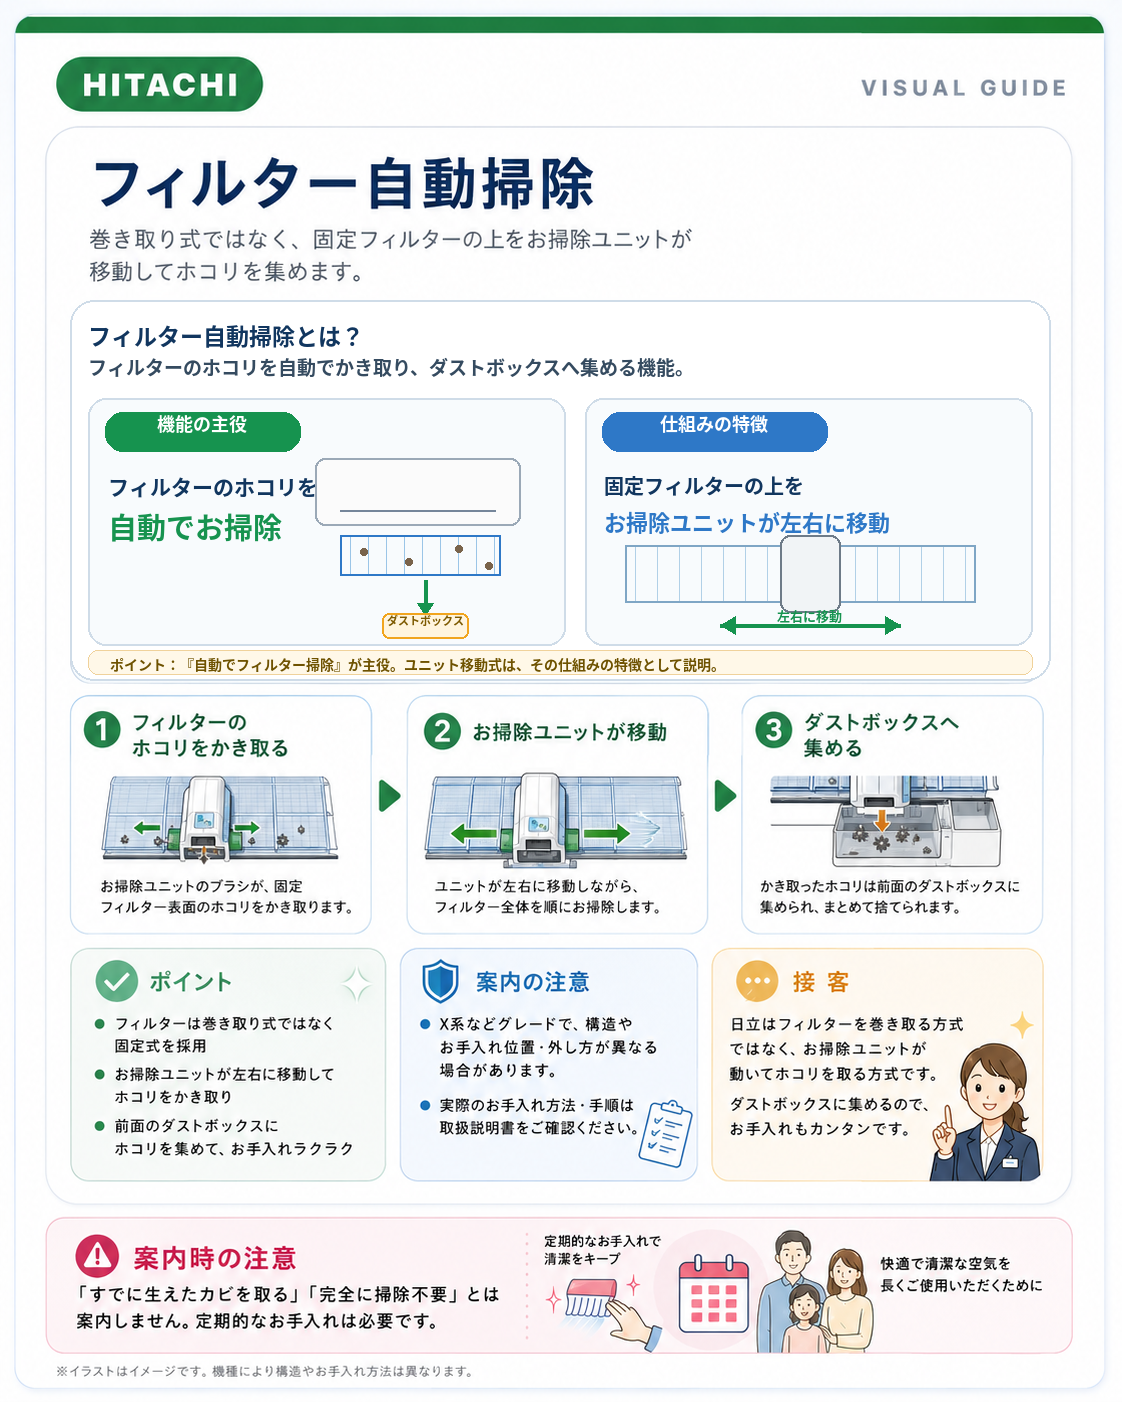
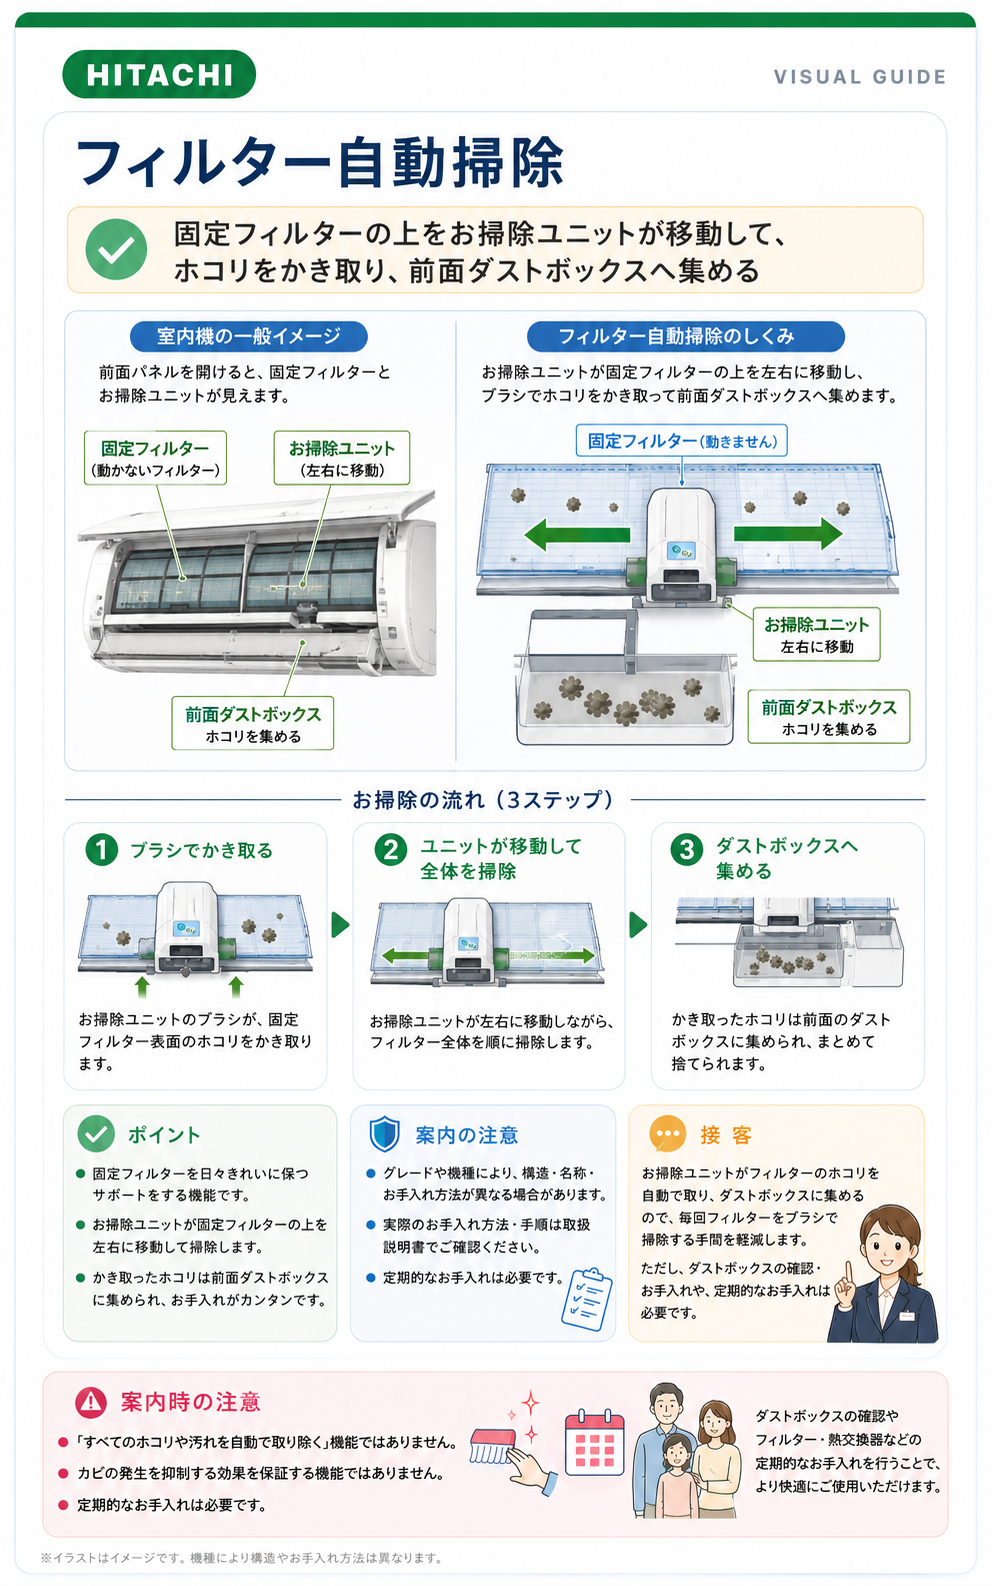
Add files via upload

diff --git a/index.html b/index.html
@@ -4,7 +4,7 @@
 <meta charset="utf-8">
 <meta name="viewport" content="width=device-width,initial-scale=1,viewport-fit=cover">
 <meta name="theme-color" content="#ffffff">
-<title>エアコン販買マスター Pro Ver.6.9.9 SHARP図解本体修正版</title>
+<title>エアコン販買マスター Pro Ver.6.10.0 日立資料反映版</title>
 <link rel="apple-touch-icon" sizes="180x180" href="apple-touch-icon.png?v=3890">
 <link rel="icon" type="image/png" sizes="32x32" href="favicon-32.png?v=3890">
 <style>
@@ -1294,7 +1294,7 @@ html,body{max-width:100%;overflow-x:hidden}
 
 
 <style id="v630-sharp-lux-final">
-/* Ver.6.9.9 SHARP図解本体修正版：iPad/iPhone見切れ対策 */
+/* Ver.6.10.0 日立資料反映版：iPad/iPhone見切れ対策 */
 #visualGrid .visual-card[data-cat="sharp"]{
   overflow:hidden!important;
   padding:10px!important;
@@ -1434,7 +1434,7 @@ html,body{max-width:100%;overflow-x:hidden}
 #general .maker-status-list span,#mitsubishi .maker-status-list span{min-width:42px;text-align:center}
 @media(max-width:700px){#general .hitachi-flow-row,#mitsubishi .hitachi-flow-row{grid-template-columns:1fr!important}#general .hitachi-flow-row i,#mitsubishi .hitachi-flow-row i{transform:rotate(90deg)}}
 
-/* ===== Ver6.9.9 Tamachan Feedback Fully Applied ===== */
+/* ===== Ver6.10.0 Tamachan Feedback Fully Applied ===== */
 .visual-grid{grid-template-columns:repeat(2,minmax(0,1fr));gap:18px}
 .visual-card{position:relative;border:1px solid #cfe0ef;border-radius:24px;background:linear-gradient(180deg,#fff 0%,#f8fbff 100%);overflow:hidden;box-shadow:0 14px 34px rgba(20,61,102,.10)}
 .visual-card::before{content:"";display:block;height:7px;background:linear-gradient(90deg,#0d6ee8,#61a9ff)}
@@ -1484,7 +1484,7 @@ html,body{max-width:100%;overflow-x:hidden}
     <div class="brand">
       <span class="brand-snow">❄</span>
       <span>エアコン販買マスター</span>
-      <small>Ver.6.9.9 SHARP図解本体修正版</small>
+      <small>Ver.6.10.0 日立資料反映版</small>
     </div>
     <button class="icon-button status-button" onclick="openMission()" aria-label="今日の目標">◎</button>
   </header>
@@ -3350,9 +3350,9 @@ const VISUAL_LIBRARY=[
  {category:"daikin",file:"room-patrol.png",title:"室温パトロール",desc:"停止中の見守りから自動運転までの流れを図解。"},
  {category:"daikin",file:"daikin-overview.png",title:"R・A・F・E比較",desc:"使い方・希望・予算から、4シリーズの提案軸を比較。"},
  {category:"hitachi",file:"hitachi-freeze-indoor-illustrated.png?v=686",title:"凍結洗浄（室内機）",desc:"凍結→汚れ捕捉→解凍排水の工程と、できること・限界を図解。"},
- {category:"hitachi",file:"hitachi-freeze-outdoor-lux-v695.png?v=697",title:"凍結洗浄（室外機）",desc:"背面熱交換器の凍結→解凍→洗い流し。工場出荷時OFF・設定必要・逆回転時の案内を整理。"},
+ {category:"hitachi",file:"hitachi-freeze-outdoor-lux-v695.png?v=6100",title:"凍結洗浄（室外機）",desc:"背面熱交換器の凍結→解凍→洗い流し。工場出荷時OFF・設定必要・逆回転時の案内を整理。"},
  {category:"hitachi",file:"hitachi-fan-robot-illustrated.png?v=686",title:"ファンお掃除ロボ",desc:"送風ファンの清掃範囲と、フィルター自動掃除との違いを図解。"},
- {category:"hitachi",file:"hitachi-filter-auto-lux-v696.png?v=697",title:"フィルター自動掃除",desc:"フィルターのホコリを自動掃除する機能を主役にし、ユニット移動式は仕組みの特徴として整理。"},
+ {category:"hitachi",file:"hitachi-filter-auto-lux-v696.png?v=6100",title:"フィルター自動掃除",desc:"固定フィルター上をお掃除ユニットが左右移動し、ホコリを前面ダストボックスへ集める仕組みを図解。"},
  {category:"hitachi",file:"hitachi-mold-buster-illustrated.png?v=686",title:"カビバスター",desc:"停止中の温湿度監視と、加熱・低湿制御によるカビ抑制を図解。"},
  {category:"hitachi",file:"hitachi-internal-dry-illustrated.png?v=686",title:"内部送風乾燥",desc:"停止後の送風で内部の湿気を乾かし、カビ抑制を助ける流れを図解。"},
  {category:"hitachi",file:"hitachi-stainless-illustrated.png?v=686",title:"ステンレス・クリーン",desc:"フィルター・通風路・フラップなど、採用箇所と限界を図解。"},
@@ -3363,7 +3363,7 @@ const VISUAL_LIBRARY=[
  {category:"hitachi",file:"hitachi-frost-watch-illustrated.png?v=686",title:"みはって霜取り",desc:"室外機の霜を見張り、必要なタイミングで霜取り運転する仕組みを図解。"},
  {category:"hitachi",file:"hitachi-ryokai-illustrated.png?v=686",title:"健康冷房［涼快］",desc:"湿度を抑えながら、冷えすぎに配慮したさわやかな冷房を図解。"},
  {category:"hitachi",file:"hitachi-sleep-watch-illustrated.png?v=686",title:"みはっておやすみ",desc:"睡眠中の温度・湿度を見張り、寝苦しさや冷えすぎに配慮する運転を図解。"},
- {category:"hitachi",file:"hitachi-lab-control-lux-v696.png?v=697",title:"LAB制御",desc:"設定温度到達後の安定時に低出力へ自動切替し、快適性と節電を両立する仕組みを図解。"},
+ {category:"hitachi",file:"hitachi-lab-control-lux-v696.png?v=6100",title:"LAB制御",desc:"設定温度到達後の安定時に低出力へ自動切替し、快適性と節電を両立する仕組みを図解。"},
  {category:"hitachi",file:"hitachi-wave-fan-illustrated.png?v=414",title:"WN ウェーブファン",desc:"Xシリーズと同じファン採用、静音性向上、案内時の注意を図解。"},
  {category:"toshiba",file:"toshiba-radar-v692.webp",title:"レーダー風あて／風よけ",desc:"V-DR専用。人の動きを探知し、風を届ける・避ける仕組みを図解。"},
  {category:"toshiba",file:"toshiba-mufukan-v692.webp",title:"無風感空調",desc:"V-DR・V-DZ・V-DX。風あたりをやわらげる仕組みを図解。"},
